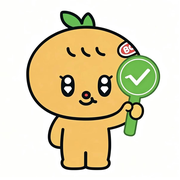
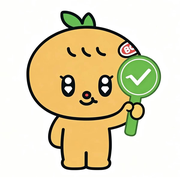
🔍 图标放大铺满显示

diff --git a/index.html b/index.html
@@ -7,9 +7,9 @@
   <meta name="apple-mobile-web-app-capable" content="yes">
   <meta name="apple-mobile-web-app-status-bar-style" content="default">
   <meta name="apple-mobile-web-app-title" content="松子鱼工作台">
-  <link rel="manifest" href="./manifest.json?v=3">
-  <link rel="apple-touch-icon" href="./icons/apple-touch-icon.png?v=3">
-  <link rel="icon" type="image/png" href="./icons/favicon.png?v=3">
+  <link rel="manifest" href="./manifest.json?v=4">
+  <link rel="apple-touch-icon" href="./icons/apple-touch-icon.png?v=4">
+  <link rel="icon" type="image/png" href="./icons/favicon.png?v=4">
   <title>松子鱼的工作台</title>
   <script src="https://unpkg.com/vue@3/dist/vue.global.js"></script>
   <script src="https://cdn.tailwindcss.com"></script>

diff --git a/icons/generate_user_icons.py b/icons/generate_user_icons.py
@@ -4,8 +4,8 @@ import os
 out = os.path.dirname(__file__)
 img = Image.open(os.path.join(out, 'user-logo.jpg')).convert('RGBA')
 
-# 保持原图比例，缩放适应目标尺寸，不裁切、不加背景
-# 目标尺寸按宽度缩放，高度自适应（保持原图完整）
+# 放大铺满模式：原图按比例缩放，短边填满画布，居中裁剪
+# 这样中间主体更大，系统圆角裁剪会裁掉边角
 sizes = {
     'icon-192.png': (192, 192),
     'icon-512.png': (512, 512),
@@ -14,26 +14,25 @@ sizes = {
 }
 
 for name, (target_w, target_h) in sizes.items():
-    # 按比例缩放到能完整放入目标框的最大尺寸
+    # 按比例缩放，让短边填满画布
     img_ratio = img.width / img.height
     target_ratio = target_w / target_h
 
     if img_ratio > target_ratio:
-        # 图片更宽，按宽度缩放
-        new_w = target_w
-        new_h = int(target_w / img_ratio)
-    else:
-        # 图片更高，按高度缩放
+        # 图片更宽，按高度缩放，宽度会超出，需要左右裁剪
         new_h = target_h
         new_w = int(target_h * img_ratio)
+    else:
+        # 图片更高，按宽度缩放，高度会超出，需要上下裁剪
+        new_w = target_w
+        new_h = int(target_w / img_ratio)
 
     resized = img.resize((new_w, new_h), Image.LANCZOS)
 
-    # 创建透明背景画布，居中放置
-    canvas = Image.new('RGBA', (target_w, target_h), (255, 255, 255, 0))
-    x = (target_w - new_w) // 2
-    y = (target_h - new_h) // 2
-    canvas.paste(resized, (x, y), resized)
+    # 居中裁剪到目标尺寸
+    x = (new_w - target_w) // 2
+    y = (new_h - target_h) // 2
+    canvas = resized.crop((x, y, x + target_w, y + target_h))
     canvas.save(os.path.join(out, name), 'PNG')
     print(f'Generated {name} ({target_w}x{target_h})')
 
